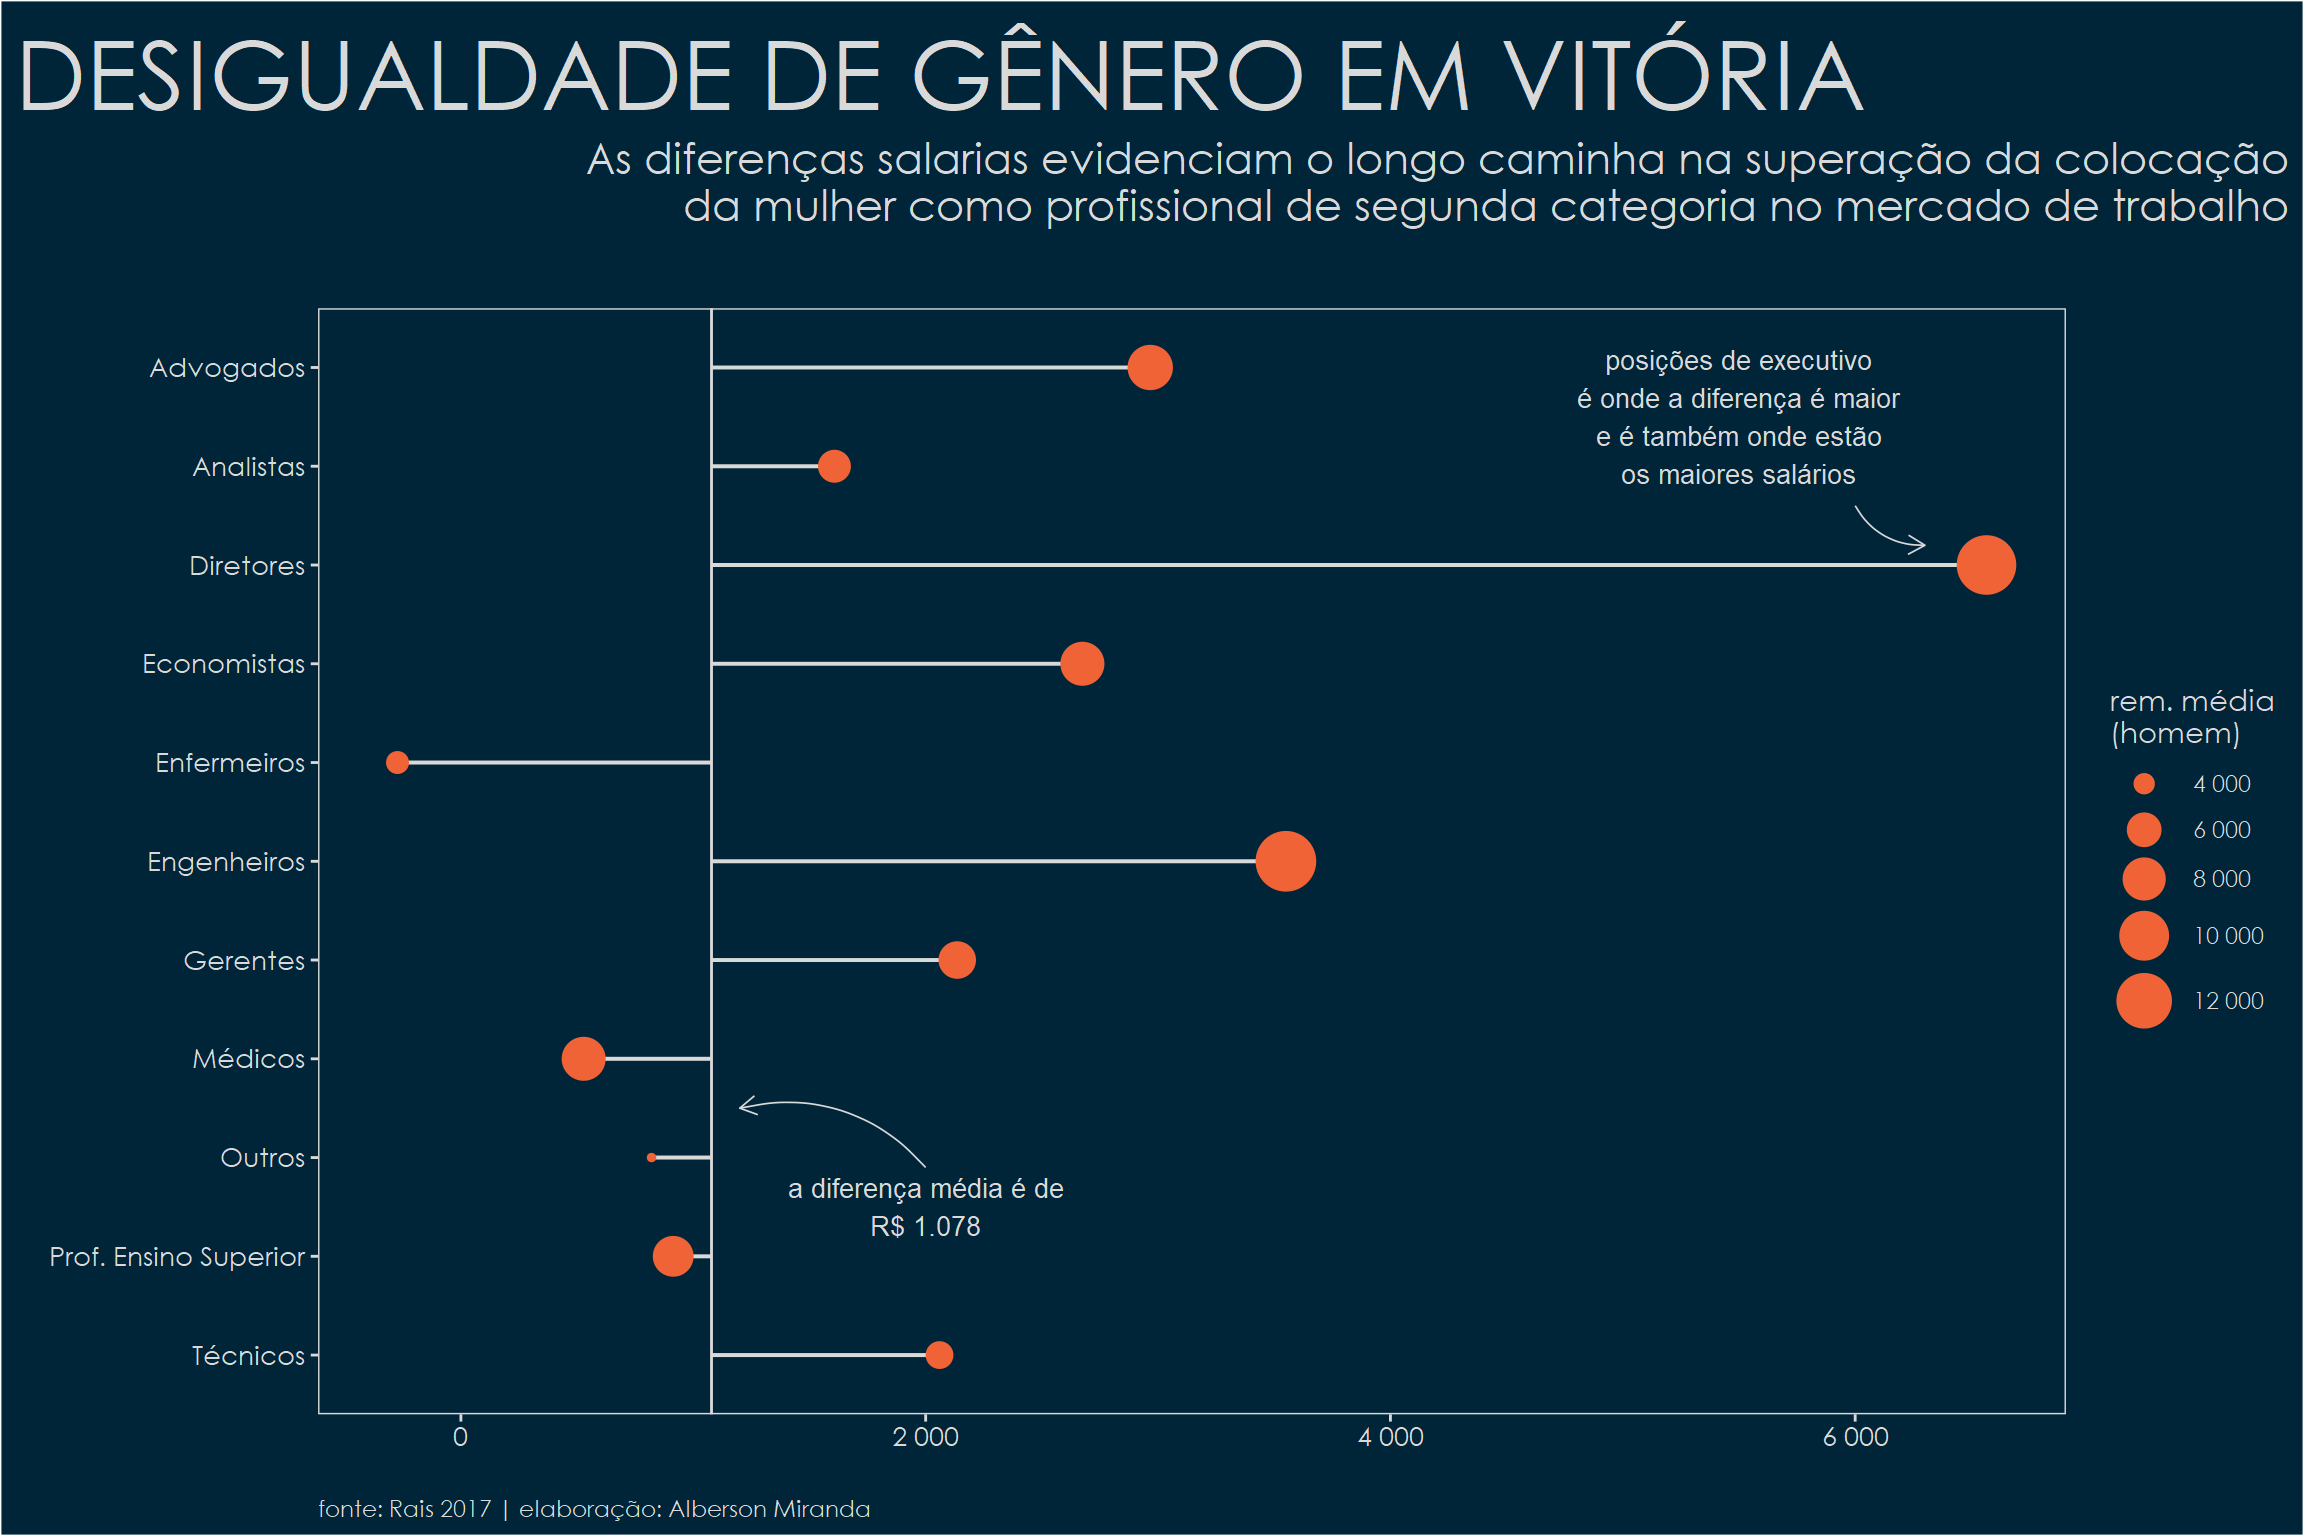
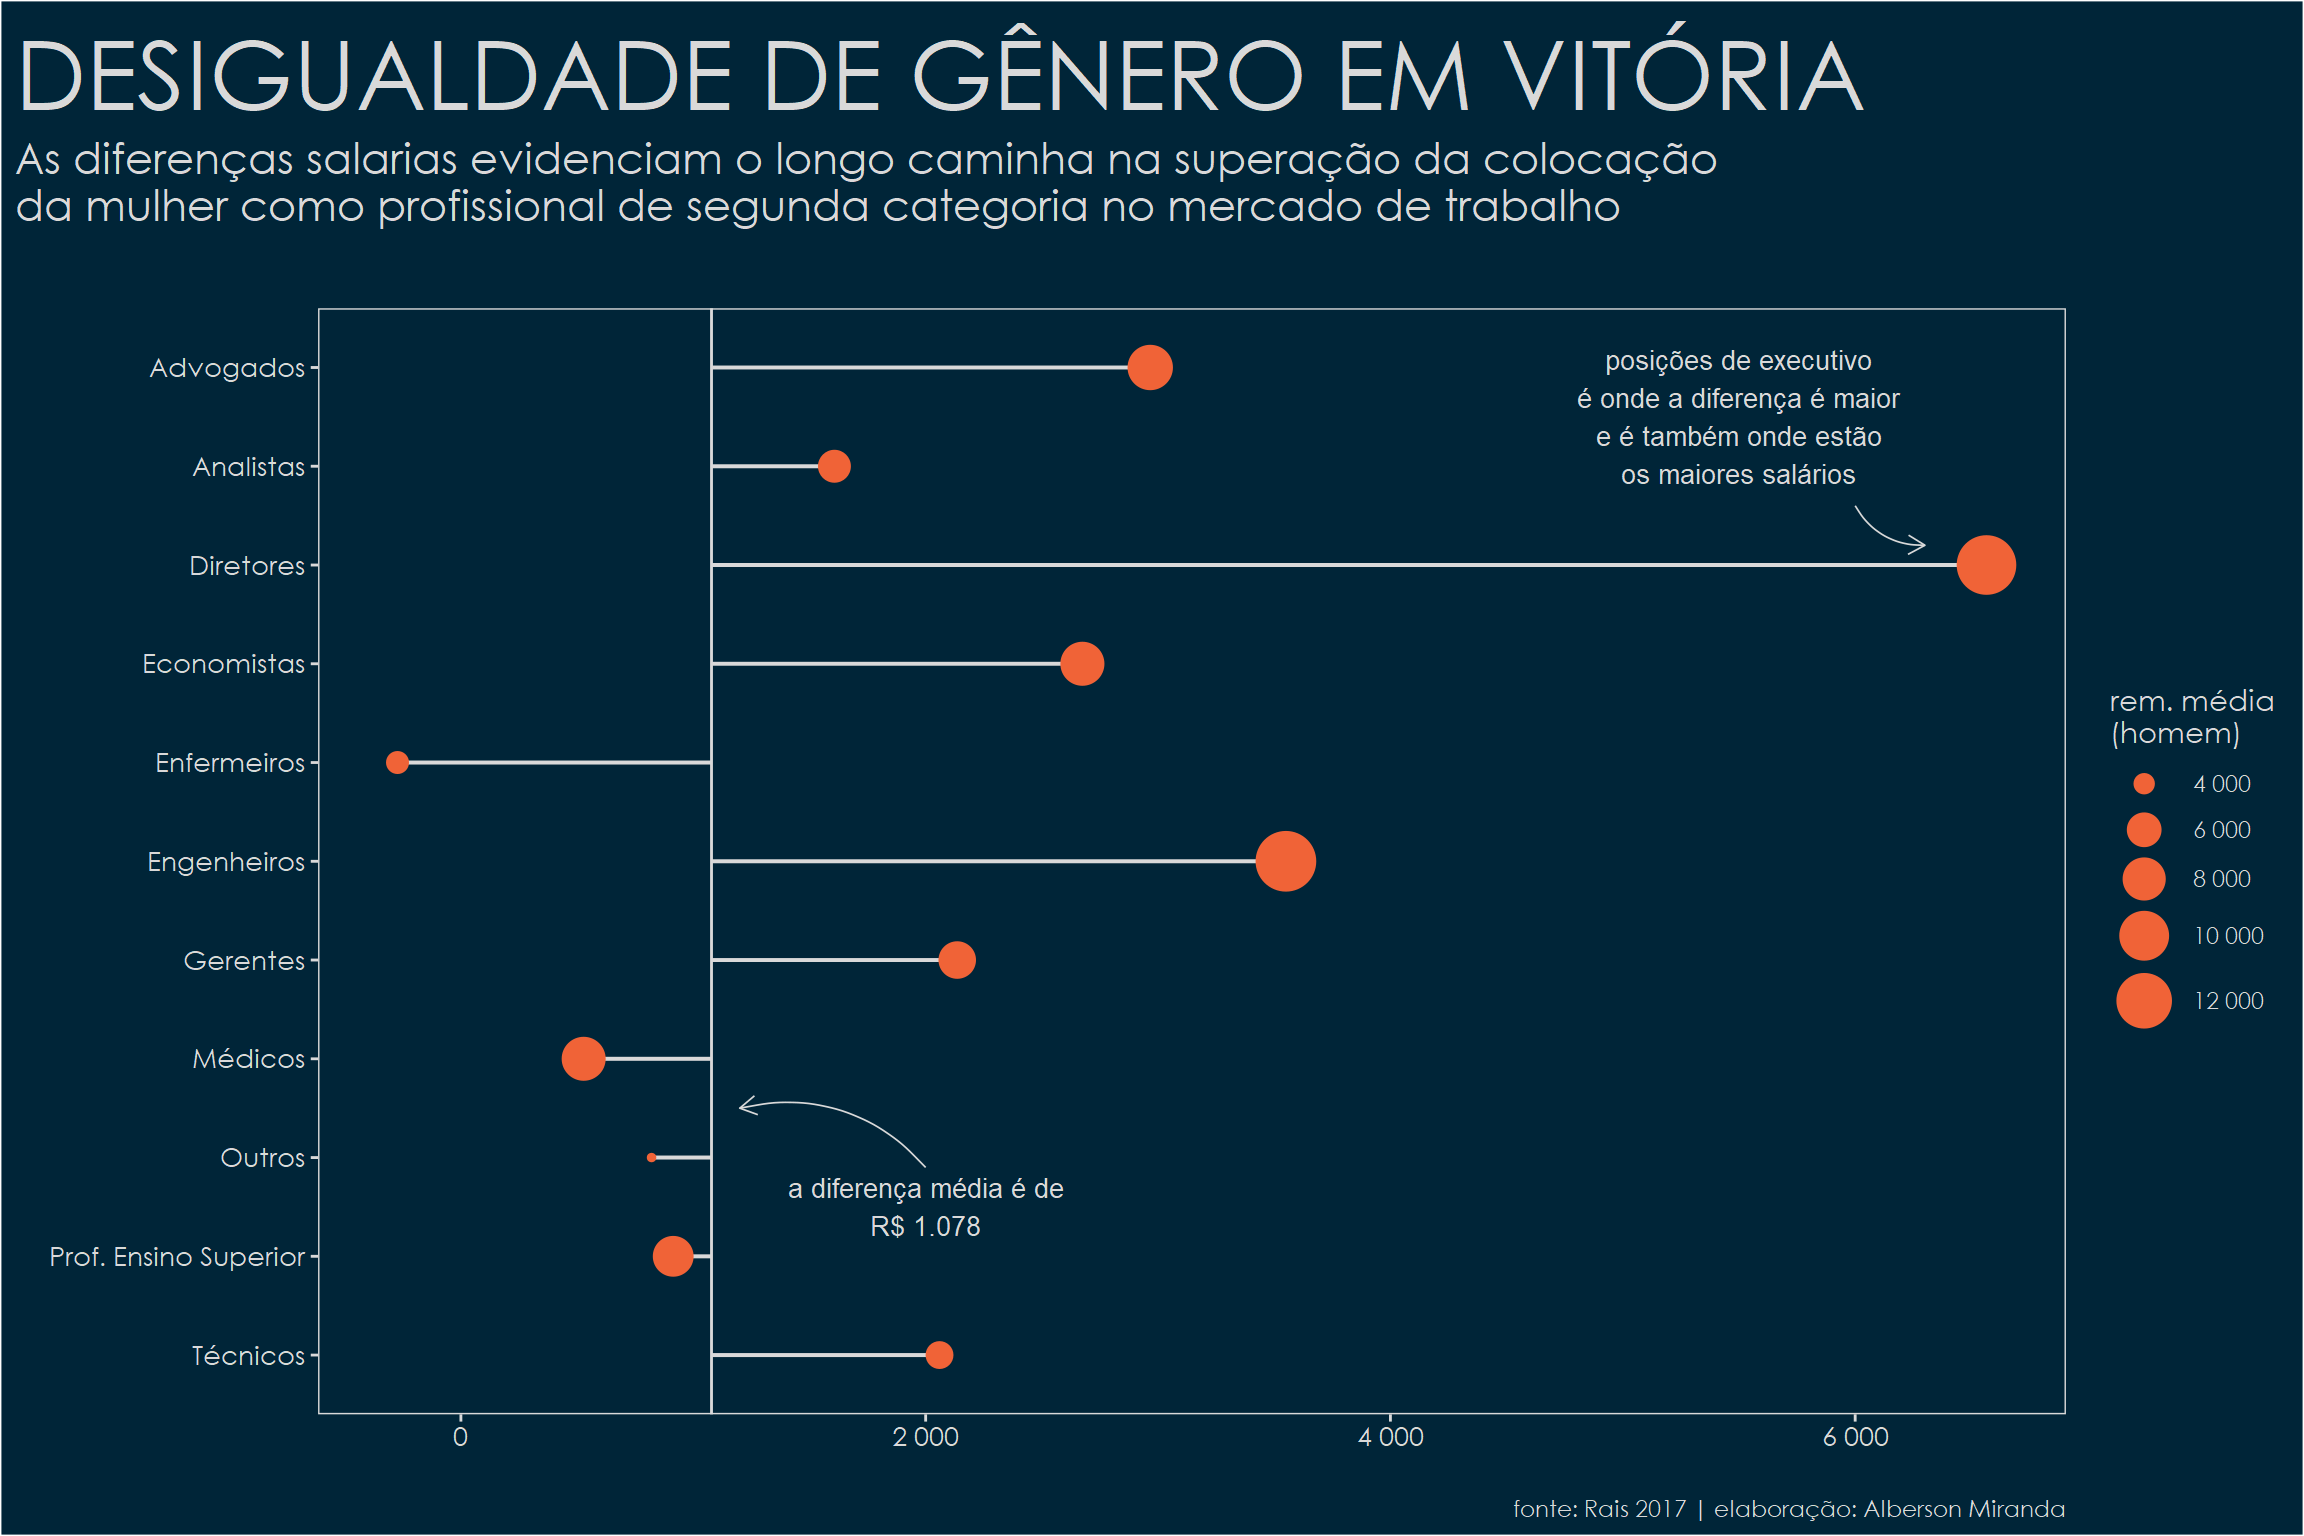
set draft post desigualdade

diff --git a/content/post/2020-11-10-desigualdade-de-renda-entre-generos/index.html b/content/post/2020-11-10-desigualdade-de-renda-entre-generos/index.html
@@ -11,8 +11,7 @@ tags:
   - Reticulate
   - Inferencia
 description: Estudo de desigualdade de renda entre gêneros na cidade de Vitória-ES.
-toc: true
-draft: false
+draft: true
 featured: yes
 featureImage: "gender.jpg"
 thumbnail: "images/reticulate.png"
@@ -26,9 +25,6 @@ figurePositionShow: yes
 <link href="index_files/anchor-sections/anchor-sections.css" rel="stylesheet" />
 <script src="index_files/anchor-sections/anchor-sections.js"></script>
 
-<div id="TOC">
-true
-</div>
 
 <p>Ainda há um bocado de coisas para cobrir nessa série de “inferência 101” e para continuar os estudos trouxe a base da RAIS (Relação Anual de Informações Sociais) de 2017<a href="#fn1" class="footnote-ref" id="fnref1"><sup>1</sup></a>. Com ela, vamos introduzir o conceito de <em>effect size</em> e de quebra analisar a desigualdade de gênero em nossa querida capital Vitorinha.</p>
 <div id="os-dados" class="section level1">
@@ -393,13 +389,13 @@ diferencas %&gt;%
     color = &quot;grey85&quot;, size = .7
   ) +
   geom_point(aes(size = renda_homem), color = &quot;#F06337&quot;) +
-    scale_y_continuous(labels = scales::number) +
-    scale_size_continuous(labels = scales::number, range = c(1, 10)) +
-    annotate(&quot;text&quot;,
-      x = 2.5, y = 2000, size = 3.5, color = &quot;grey85&quot;,
-      label = &quot;a diferença média é de\nR$ 1.078&quot;
-    ) +
-    annotate(&quot;text&quot;,
+  scale_y_continuous(labels = scales::number) +
+  scale_size_continuous(labels = scales::number, range = c(1, 10)) +
+  annotate(&quot;text&quot;,
+    x = 2.5, y = 2000, size = 3.5, color = &quot;grey85&quot;,
+    label = &quot;a diferença média é de\nR$ 1.078&quot;
+  ) +
+  annotate(&quot;text&quot;,
     x = 10.5, y = 5500, size = 3.5, color = &quot;grey85&quot;,
     label = &quot;posições de executivo\né onde a diferença é maior\ne é também onde estão\nos maiores salários&quot;
   ) +
@@ -428,15 +424,19 @@ diferencas %&gt;%
     axis.text = element_text(color = &quot;grey85&quot;, size = 10),
     axis.ticks = element_line(color = &quot;grey85&quot;),
     plot.title = element_text(size = 36, margin = margin(10, 0, 5, 10)),
-    plot.subtitle = element_text(hjust = 1, margin = margin(0, 0, 30, 0), size = 16),
-    plot.caption = element_text(hjust = 0),
+    plot.subtitle = element_text(
+      hjust = 0,
+      margin = margin(0, 0, 30, 0),
+      size = 16
+    ),
+    plot.caption = element_text(hjust = 1),
     plot.title.position = &quot;plot&quot;,
     panel.border = element_rect(color = &quot;grey85&quot;, fill = NA),
     legend.background = element_rect(fill = &quot;#002538&quot;),
     legend.key = element_rect(fill = &quot;#002538&quot;)
   )</code></pre>
 <p><img src="index_files/figure-html/unnamed-chunk-11-1.png" width="1152" /></p>
-<p>Dentre essas profissões que escolhemos, vamos analisar o tamanho do efeito</p>
+<p>Dentre essas profissões que escolhemos, vamos analisar o tamanho do efeito para a maior diferença — os cargos de executivo (dirigentes e diretores).</p>
 </div>
 <div class="footnotes">
 <hr />
